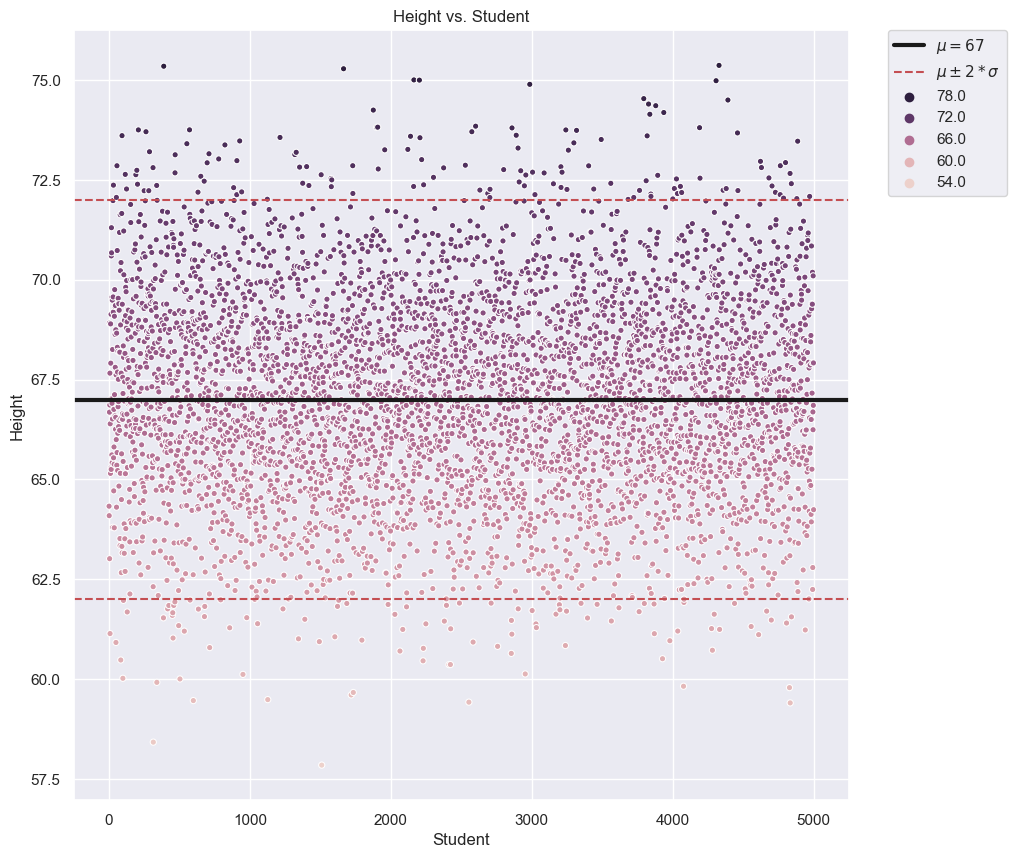
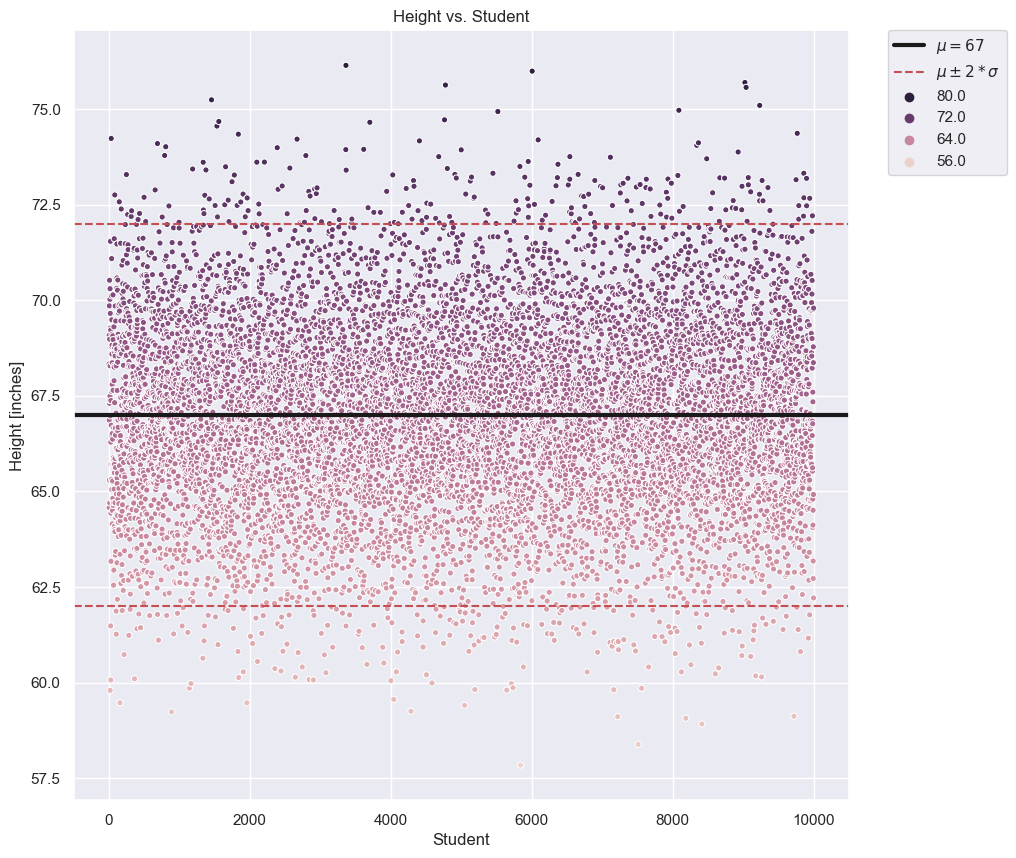
updated plots, loop function, and outputs

diff --git a/height_example.py b/height_example.py
@@ -1,71 +1,109 @@
 import numpy as np
-import scipy as sp
+from scipy import stats
 import matplotlib.pyplot as plt
 import seaborn as sns
 
-sns.set()
+if __name__ == '__main__':
+    flag = True
+    while flag:
+        sns.set()
 
-n = int(input("n = "))
-print(f'\nn = {n}')
+        # scales the marker size for the plot. Large markers for small sample size, small markers for large sample size
+        def marker_scale():
+            marker_scaling = {50: 150, 100: 125, 500: 100, 1000: 75, 2500: 50, 9999999: 20}
+            marker_size = 50
+            for key, value in marker_scaling.items():  # defines how to scale the markers from the inputs
+                if n <= key:
+                    marker_size = value
+                    break
+            return marker_size
 
-mu = 67  # % 5'7''
-sigma = 2.5  # 2 sigma = 5"
 
-heights = mu * np.ones(n) + sigma * np.random.normal(0, 1, n)  # generate heights with gaussian distribution
-# print(np.random.normal(0, 1, n))
+        n = int(input("n = "))
+        print(f'\nn = {n}')
 
-marker_scaling = {50: 150, 100: 125, 500: 100, 1000: 75, 2500: 50, 9999999: 20}
-marker_size = 50
-for key, value in marker_scaling.items():  # defines how to scale the markers from the inputs
-    if n <= key:
-        marker_size = value
-        break
+        mu = 67  # % 5'7''
+        sigma = 2.5  # 2 sigma = 5"
 
-# Plotting Scatter Plot
-fig, ax = plt.subplots(figsize=(10, 10))
-# ax = sns.scatterplot(np.arange(1, n + 1, 1), heights, marker="*", s=75, hue=heights, size=heights, sizes=(20, 200))  # generate x data starting from 1 to just before n+1, steps of 1
-ax = sns.scatterplot(np.arange(1, n + 1, 1), heights, s=marker_size, hue=heights, legend='brief')
-ax.set_title('Height vs. Student')
-ax.set_xlabel('Student')
-ax.set_ylabel('Height')
-ax.axhline(y=mu, c='k', linewidth=3, label=r'$\mu = {{{}}}$'.format(mu))  # H-Line for mean
+        heights = mu * np.ones(n) + sigma * np.random.normal(0, 1, n)  # generate heights with gaussian distribution
+        # print(np.random.normal(0, 1, n))
 
-ax.axhline(y=mu + 2 * sigma, c='r', linestyle="dashed", label=r'$\mu \pm 2*\sigma$'.format(mu))  # H-Line for mean
-ax.axhline(y=mu - 2 * sigma, c='r', linestyle="dashed", )  # H-Line for mean
+        ms = marker_scale()
+        # Plotting Scatter Plot
+        fig, ax = plt.subplots(figsize=(10, 10))
+        ax = sns.scatterplot(np.arange(1, n + 1, 1), heights, s=ms, hue=heights, legend='brief')
+        ax.set_title('Height vs. Student')
+        ax.set_xlabel('Student')
+        ax.set_ylabel('Height [inches]')
+        ax.axhline(y=mu, c='k', linewidth=3, label=r'$\mu = {{{}}}$'.format(mu))  # H-Line for mean
 
-ax.legend()  # places legend on right hand side
-handles, labels = ax.get_legend_handles_labels()  # return labels and symbols
-reverse_labels, reverse_handles = labels[2:], handles[2:]  # grab color symbols and labels
-reverse_labels.reverse(), reverse_handles.reverse()  # reverse order, go from  high to low
-labels[2:], handles[2:] = reverse_labels, reverse_handles  # reassign new order
-# ax.legend(handles, labels, loc=2, ncol=1)
-# ax.legend(handles, labels, loc='upper left', bbox_to_anchor=(0.5, 1.05), ncol=1, fancybox=True, shadow=True)
-# fig.subplots_adjust(right=0.7)  # provides extra white space for legend on right hand side
-plt.legend(handles, labels,bbox_to_anchor=(1.05, 1), loc='upper left', borderaxespad=0.)
-plt.savefig('Data.png', bbox_inches='tight')
-plt.show()
+        ax.axhline(y=mu + 2 * sigma, c='r', linestyle="dashed",
+                   label=r'$\mu \pm 2*\sigma$'.format(mu))  # H-Line for mean
+        ax.axhline(y=mu - 2 * sigma, c='r', linestyle="dashed", )  # H-Line for mean
 
-# Histogram and KDE at x_i of the Population
-dx = (mu + 3 * sigma - mu + 3 * sigma) / 1000  # split entire distribution space evenly into 1000 parts
-x = np.arange(mu - (3 * sigma), mu + (3 * sigma), dx)  # create a grid with even space of dx from +- 3sigma between mean
-pdf = sp.stats.norm.pdf(x, loc=mu, scale=sigma)
+        ax.legend()  # places legend on right hand side
+        handles, labels = ax.get_legend_handles_labels()  # return labels and symbols
+        reverse_labels, reverse_handles = labels[2:], handles[2:]  # grab color symbols and labels
+        reverse_labels.reverse(), reverse_handles.reverse()  # reverse order, go from  high to low
+        labels[2:], handles[2:] = reverse_labels, reverse_handles  # reassign new order
+        plt.legend(handles, labels, bbox_to_anchor=(1.05, 1), loc='upper left', borderaxespad=0.)
+        plt.savefig('Data.png', bbox_inches='tight')
+        plt.show()
 
-# generate KDE from out sample data
-kernel = sp.stats.gaussian_kde(heights)  # instantiate KDE method
-test = kernel.evaluate(heights)
-test2 = kernel(heights)
+        # Histogram and KDE at x_i of the Population
+        dx = (mu + 3 * sigma - mu + 3 * sigma) / 1000  # split entire distribution space evenly into 1000 parts
+        x = np.arange(mu - (3 * sigma), mu + (3 * sigma),
+                      dx)  # create a grid with even space of dx from +- 3sigma between mean
+        pdf = stats.norm.pdf(x, loc=mu, scale=sigma)
 
-fig, ax = plt.subplots(figsize=(10, 10))
-plt.plot(x, pdf, label='Population PDF')
-sns.kdeplot(heights, label='KDE', linestyle=':')
-# plt.plot(np.arange(1, n + 1, 1), kernel(heights))
-plt.title('Distribution Comparisons')
-plt.xlabel('Height')
-plt.axvline(x=mu, ymin=0, ymax=1, linestyle='--', alpha=0.25, label='Population Mean')
-plt.ylim((0, 0.18))
-plt.legend()
-plt.savefig('PDF_and_KDES.png', bbox_inches='tight')
-plt.show()
+        # generate KDE from  sample distribution
+        kernel = stats.gaussian_kde(heights)  # instantiate KDE method
+        p_of_low_to_high = kernel.integrate_box_1d(4,
+                                                   100)  # returns Probability by integrating PDF from 2 inputs (low, high)
 
-# plt.plot(np.arange(1, n + 1, 1), kernel(heights))
-# plt.show()
+        # plot overlay PDFs, Histogram, etc...
+        fig, ax = plt.subplots(figsize=(10, 10))
+        plt.plot(x, pdf, label=r'Population PDF: $N(\mu, \sigma^2)$', linewidth=3)  # plot Population Distribution
+        sns.kdeplot(heights, label='KDE', linestyle=':', linewidth=3)  # plot KDE  of sample distribution
+        (bin_values, _, _) = plt.hist(heights, bins=15, stacked=True, density=True,
+                                      label='Normalized Histogram from Sample')
+        # plot normalized histogram with 15 bins of sample distribution, returns the probability from those bins
+        plt.title('Distribution Comparisons')
+        plt.xlabel('Height [inches]')
+        plt.axvline(x=mu, ymin=0, ymax=1, linestyle='--', alpha=0.25,
+                    label=r'Population Mean: $\mu = {{{}}}$'.format(mu),
+                    c='k', linewidth=2)  # vertical line for Mean
+        plt.ylim((0, max(bin_values) + 0.02))
+        plt.xlim((55, 80))
+        plt.legend()
+        plt.savefig('PDF_and_KDES.png', bbox_inches='tight')
+        plt.show()
+
+        # Generate sample mean, Standard deviation estimates
+        x_bar = (1 / n) * sum(heights)
+        unbiased_sample_variance = (1 / (n - 1)) * sum((heights - x_bar) ** 2)
+        sample_standard_deviation = np.sqrt(unbiased_sample_variance)
+
+        alpha = 0.05
+        rd = 4  # rounding digit cutoff
+        tcrit_2sided = stats.t.ppf(1 - (alpha / 2), n - 1)  # t-inverse 2 sided
+        standard_error = sample_standard_deviation / np.sqrt(n)
+        value = tcrit_2sided * standard_error  # Defines interval when sigma is not known
+
+        real_value = 2 * sigma / np.sqrt(n)
+
+        # rounds all outputs to 4 decimals
+        outputs = np.around(np.array((x_bar, sample_standard_deviation, tcrit_2sided, value, real_value)), decimals=4)
+
+        print(f'Sample Mean (x_bar) = {outputs[0]},      Population Mean = {mu}\n'
+              f'Sample Standard Deviation (S) = {outputs[1]},      Population Standard Deviation = {sigma}\n'
+              f'2-Sided T-critical value: = {outputs[2]}\n'
+              f'Estimate Sigma Interval = {outputs[3]}\n'
+              f'Actual interval for known Sigma = {outputs[4]}')
+
+        repeat = input('\nRepeat Again? yes or no?\n').lower()
+        if repeat == 'yes':
+            pass
+        else:
+            flag = False
+            print('Goodbye')
